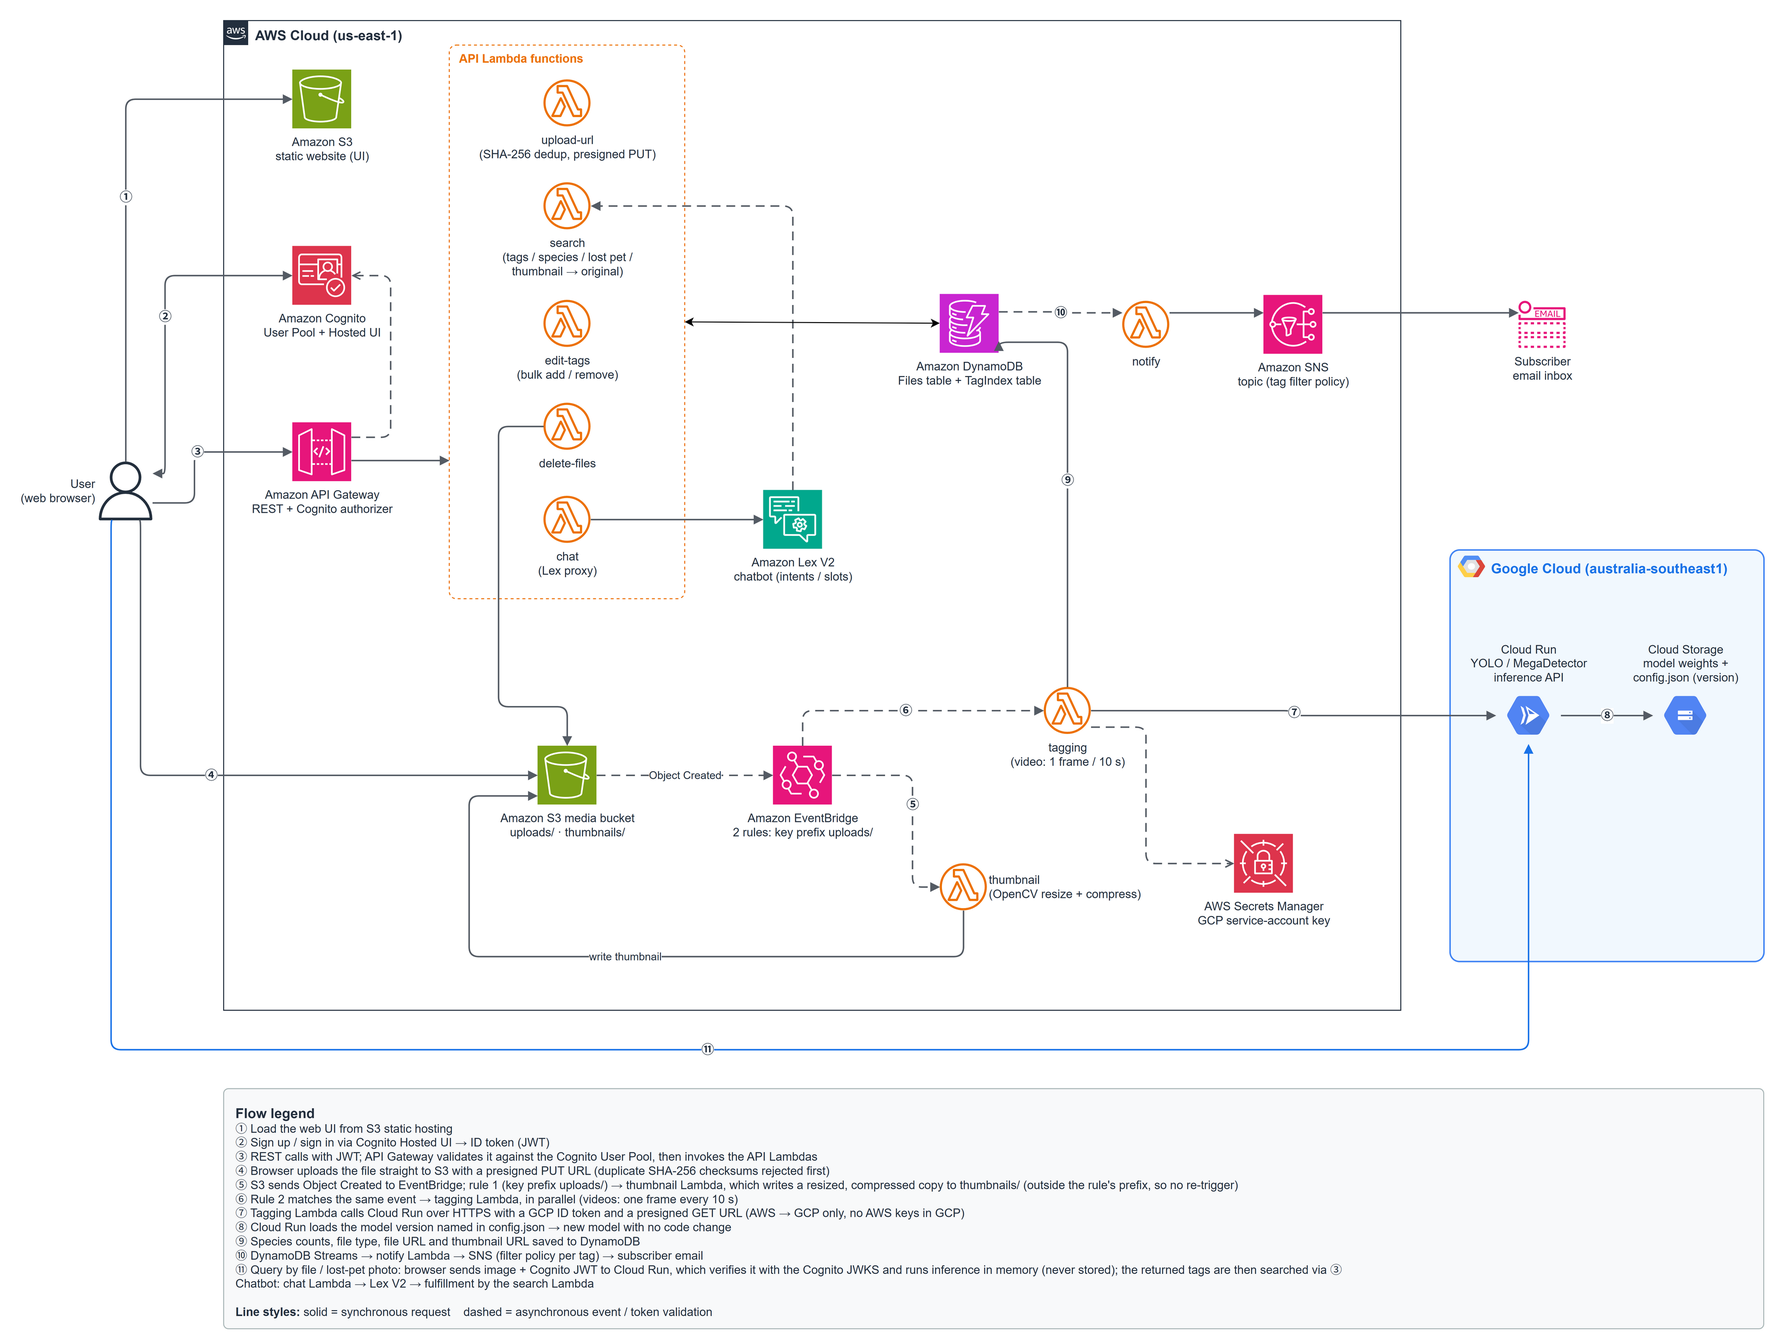
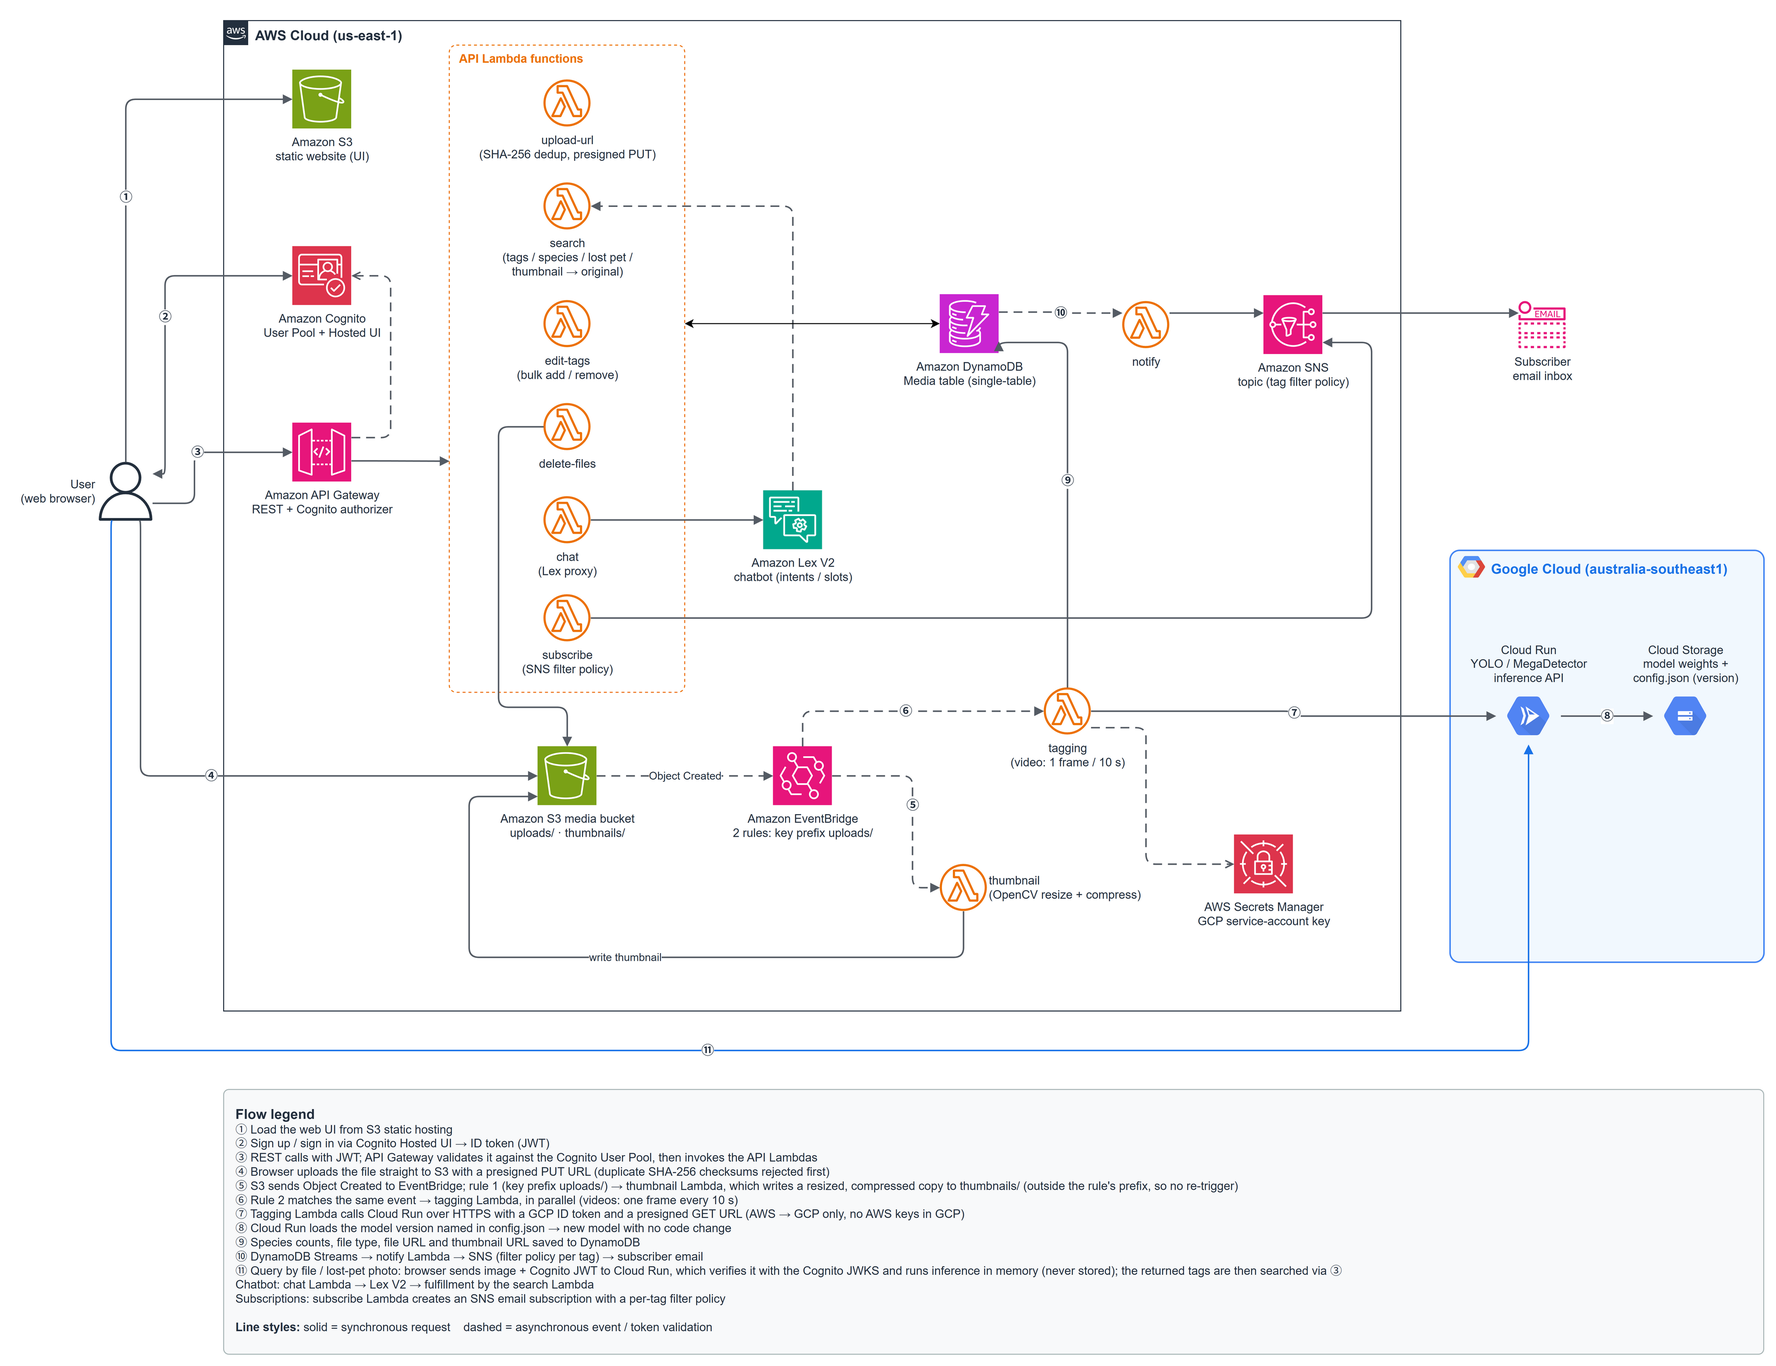
Update architecture documentation and diagrams for media handling
- Replace 'Files table + TagIndex table' with 'Media table (single-table)' in diagrams
- Adjust dimensions of API Lambda functions in architecture diagram
- Update flow legend to reflect changes in data model and notifications

diff --git a/architecture/README.md b/architecture/README.md
@@ -17,7 +17,7 @@ AWS is the primary cloud. It hosts authentication, the REST API, storage, the da
 | AWS | Amazon S3 (media bucket) | Original files in `uploads/`, thumbnails in `thumbnails/` |
 | AWS | Amazon EventBridge | Routes each S3 "Object Created" event to the thumbnail and tagging Lambdas (see §4) |
 | AWS | AWS Lambda (event functions) | `thumbnail`, `tagging`, `notify` |
-| AWS | Amazon DynamoDB | `Files` table and `TagIndex` table; DynamoDB Streams drive notifications |
+| AWS | Amazon DynamoDB | Single `Media` table holding file metadata and tags (§6); DynamoDB Streams drive notifications |
 | AWS | Amazon Lex V2 | Chatbot that turns natural-language queries into intents and slots |
 | AWS | Amazon SNS | Sends tag-based email notifications, filtered per subscriber |
 | AWS | AWS Secrets Manager | Holds the GCP service-account key that AWS uses to call Cloud Run |
@@ -51,15 +51,15 @@ Browser                API Gateway + upload-url λ        S3 media bucket       
 ```
 
 1. **Checksum in the browser.** The browser computes the file's **SHA-256** and calls `POST /upload-url` with the checksum, file name and content type (③).
-2. **Deduplication.** The `upload-url` Lambda looks the checksum up in the `Files` table. If it is already there, the API returns `409 Duplicate` with the existing file's URL and nothing is uploaded.
+2. **Deduplication.** The `upload-url` Lambda checks whether the `Media` table already has a `META` item for that checksum. If it is already there, the API returns `409 Duplicate` with the existing file's URL and nothing is uploaded.
 3. **Presigned URL.** For a new file, the Lambda returns a short-lived presigned **PUT** URL for `uploads/<sha256>.<ext>`. The URL is signed with the checksum (`ChecksumSHA256`), so S3 rejects any upload whose content does not match the checksum. As a backstop, `tagging` re-hashes the object and deletes it if the hash does not match its key.
 4. **Direct upload (④).** The browser PUTs the file straight to S3.
 5. **Event routing.** S3 sends an "Object Created" event to EventBridge. Two EventBridge rules, both filtered to the `uploads/` prefix, invoke the two processing Lambdas in parallel:
    - **⑤ `thumbnail`** downloads the image, resizes it while keeping the aspect ratio, compresses it with OpenCV, and writes the result to `thumbnails/`. Because the rules only match `uploads/`, writing a thumbnail does not trigger the pipeline again.
    - **⑥ `tagging`** creates a presigned **GET** URL for the object and sends it to Cloud Run (⑦). The call is authenticated with a GCP ID token minted from the service-account key held in Secrets Manager.
 6. **⑦ ⑧ Inference on GCP.** Cloud Run reads `config.json` from Cloud Storage to find the active model version, loads those weights (cached between requests), runs detection and returns per-species counts such as `{"fox": 2, "cat": 1}`. **Videos:** one frame is extracted every 10 seconds and each frame is run through the detector. The stored count for each species is the highest count seen in any single frame, so the same animal is not counted twice across frames.
-7. **⑨ Persist.** `tagging` writes the file type, the tag counts, the file URL and the thumbnail URL to DynamoDB.
-8. **⑩ Notify.** The new item appears on the DynamoDB Stream. The `notify` Lambda publishes to SNS with the species as message attributes, and each subscriber's **filter policy** decides who receives an email.
+7. **⑨ Persist.** `tagging` writes to the `Media` table in a single transaction: one `META` item (file type, file URL, thumbnail URL, colour attributes) and one `TAG#<species>` item per species with its count (§6).
+8. **⑩ Notify.** Each new `TAG#` item appears on the DynamoDB Stream. The `notify` Lambda publishes to SNS with the species as message attributes, and each subscriber's **filter policy** decides who receives an email.
 
 ## 4. Why EventBridge sits between S3 and the Lambdas
 
@@ -93,9 +93,9 @@ This section maps each requirement in Spec §4 to the flow that implements it. E
 |---|---|---|
 | Upload to cloud storage via REST or SDK | `POST /upload-url` returns a presigned PUT URL and the browser uploads straight to S3 (§3) | ③ ④ |
 | **Every upload triggers an event and a serverless function** | S3 **Object Created** → EventBridge → `thumbnail` and `tagging` Lambdas (§4) | ⑤ ⑥ |
-| Deduplication by checksum | The browser sends the SHA-256 first; `upload-url` rejects a checksum already in `Files` with `409`. The presigned PUT is bound to that checksum so the content cannot be swapped, and the conditional write `attribute_not_exists(file_id)` stops two uploads racing | ③ |
+| Deduplication by checksum | The browser sends the SHA-256 first; `upload-url` rejects a checksum that already has a `META` item in `Media` with `409`. The presigned PUT is bound to that checksum so the content cannot be swapped, and the conditional write `attribute_not_exists(file_id)` on the `META` item stops two uploads racing | ③ |
 | Thumbnail generation | The EventBridge rule for `thumbnail` matches image suffixes only (`.jpg`, `.jpeg`, `.png`). The Lambda uses OpenCV to scale the longest side to 256 px, keeping the aspect ratio, saves a JPEG at quality 70 to `thumbnails/<sha256>.jpg`, and has `s3:GetObject` on `uploads/*` and `s3:PutObject` on `thumbnails/*` | ⑤ |
-| Tag the file and save type, tags, file URL and thumbnail URL | `tagging` sends a presigned GET URL to Cloud Run and writes the result to `Files` and `TagIndex`. Because thumbnail keys are deterministic, `tagging` can store `thumb_url` without waiting for the `thumbnail` Lambda | ⑥ ⑦ ⑧ ⑨ |
+| Tag the file and save type, tags, file URL and thumbnail URL | `tagging` sends a presigned GET URL to Cloud Run and writes the result to `Media` (one `META` item plus one `TAG#` item per species). Because thumbnail keys are deterministic, `tagging` can store `thumb_url` without waiting for the `thumbnail` Lambda | ⑥ ⑦ ⑧ ⑨ |
 | Videos: **one frame every 10 seconds** | For a video, Cloud Run opens the presigned URL with OpenCV, seeks in 10-second steps (`CAP_PROP_POS_MSEC`), runs detection on each sampled frame, and keeps the highest count per species across frames | ⑦ |
 
 ### 5.3 Queries (Spec §4.3)
@@ -103,19 +103,19 @@ This section maps each requirement in Spec §4 to the flow that implements it. E
 #### Find files by tags with minimum counts
 
 - **Request:** `POST /search/tags` with `{"feral pig": 1, "cane toad": 3}`
-- **Flow:** `search` runs one `TagIndex` query per tag, for example `tag = "cane toad" AND sk >= "0003#"`. It intersects the resulting `file_id` sets (logical **AND**), then `BatchGetItem`s the matching `Files` items.
+- **Flow:** `search` runs one query per tag on the GSI `tag-count-index`, for example `tag = "cane toad" AND tag_count >= 3`. It intersects the resulting `file_id` sets (logical **AND**), then `BatchGetItem`s the matching `META` items (keys `{file_id, sk: "META"}`).
 - **Response:** thumbnail URLs for images and file URLs for videos.
 
 #### Find files by species, and find a lost pet
 
 - **By species:** `POST /search/species` with `{"species": ["cat"]}`. This is the spec's `{"cat"}` written as valid JSON. It is the query above with a minimum count of 1.
-- **Lost pet by description:** `POST /lost-pet` with `{"species": "cat", "attributes": ["orange"], "days": 14}`. `search` queries `TagIndex` for the species, keeps files where every requested colour or breed term appears in `attributes` or as a manual tag in `tags`, and keeps only those whose `created_at` falls within the last `days` days (recent sightings), newest first.
+- **Lost pet by description:** `POST /lost-pet` with `{"species": "cat", "attributes": ["orange"], "days": 14}`. `search` queries `tag-count-index` for the species and batch-gets the `META` items. It keeps a file only if every requested colour or breed term appears in its `attributes` or as a manual tag (a `TAG#<term>` item, found with the same GSI query), and keeps only those whose `created_at` falls within the last `days` days (recent sightings), newest first.
 - **Lost pet by photo:** first ⑪. The browser sends the pet photo to Cloud Run `/detect`, which returns its species and attributes without storing the image. Then it calls `POST /lost-pet` with them.
 
 #### Find the original file from a thumbnail URL
 
 - **Request:** `GET /search/original?thumb_url=<url>`
-- **Flow:** `search` parses `<sha256>` from the `thumbnails/<sha256>.jpg` path and does a `GetItem` on `Files` by primary key, then returns the original file's URL.
+- **Flow:** `search` parses `<sha256>` from the `thumbnails/<sha256>.jpg` path and does a `GetItem` on `Media` with key `{file_id, sk: "META"}`, then returns the original file's URL.
 
 #### Find files using the tags of an uploaded file (⑪)
 
@@ -128,13 +128,15 @@ This section maps each requirement in Spec §4 to the flow that implements it. E
 - **Request:** `POST /tags` with `{"url": ["<url1>", "<url2>"], "operation": 1, "tags": {"fox": 1, "cat": 2}}`
 - **`operation: 1` (add):** sets each tag's count on every listed file.
 - **`operation: 0` (remove):** deletes those tags; counts are ignored, and a tag the file does not have is silently skipped.
-- **Flow:** `edit-tags` parses each `file_id` from its URL and updates the `tags` map in `Files` and the matching `TagIndex` items in a single `TransactWriteItems`.
-- **Notifications:** the change appears on the DynamoDB Stream, so subscribers of a newly added tag are notified (5.4).
+- **Flow:** `edit-tags` parses each `file_id` from its URL. Because each tag is its own item, every change is a single-item write:
+  - add: a `Put` of `{file_id, sk: "TAG#fox", tag: "fox", tag_count: 1}`, paired in a small transaction with a `ConditionCheck` that the file's `META` item exists, so tags cannot be attached to an unknown URL
+  - remove: a `Delete` of `{file_id, sk: "TAG#fox"}`; deleting an item that does not exist is a no-op, which covers "ignore tags the file does not have"
+- **Notifications:** a newly added `TAG#` item appears on the DynamoDB Stream, so subscribers of that tag are notified (5.4).
 
 #### Delete files
 
 - **Request:** `POST /delete` with `{"url": ["<url1>", "<url2>"]}`
-- **Flow:** `delete-files` parses each `file_id`, deletes `uploads/<sha256>.<ext>` and `thumbnails/<sha256>.jpg` from S3, then deletes the `Files` item and all of its `TagIndex` items.
+- **Flow:** `delete-files` parses each `file_id`, deletes `uploads/<sha256>.<ext>` and `thumbnails/<sha256>.jpg` from S3, then runs one query, `file_id = <sha256>`, to get the file's `META` item and all of its `TAG#` items, and removes them with `BatchWriteItem`.
 
 #### Chatbot with natural-language queries
 
@@ -148,33 +150,67 @@ This section maps each requirement in Spec §4 to the flow that implements it. E
 
 ### 5.4 Tag-based notifications (Spec §4.4)
 
-1. **Subscribe:** `POST /subscriptions` with `{"tags": ["fox", "cane toad"]}`. A small `subscribe` Lambda reads the user's email from the JWT claims and calls SNS `Subscribe` with an email endpoint and a filter policy such as `{"species": ["fox", "cane toad"]}`. SNS sends a one-time confirmation email. (`subscribe` still needs to be added to the diagram's API Lambda group.)
-2. **Trigger:** every `INSERT` (new file) and `MODIFY` (tags edited) on `Files` reaches the `notify` Lambda through DynamoDB Streams (⑩). `notify` works out which species are new by comparing the old and new `tags` maps.
-3. **Deliver:** `notify` publishes one message per file with the message attribute `species` set to those new tags, plus a link to the file's page in the web app, `https://<site>/file/<sha256>`. A presigned URL is not used because it expires along with the Lambda's temporary credentials. SNS emails only the subscribers whose filter policy matches.
+1. **Subscribe:** `POST /subscriptions` with `{"tags": ["fox", "cane toad"]}`. A small `subscribe` Lambda reads the user's email from the JWT claims and calls SNS `Subscribe` with an email endpoint and a filter policy such as `{"species": ["fox", "cane toad"]}`. SNS sends a one-time confirmation email.
+2. **Trigger:** the `notify` Lambda reads the `Media` table's DynamoDB Stream (⑩). Its trigger has an **event filter** that passes only `INSERT` records whose `sk` begins with `TAG#`. Every record that reaches `notify` therefore means "file X gained tag Y", whether from automatic tagging or a manual edit, and no before/after comparison is needed. Changes to `META` items and count updates never invoke it.
+3. **Deliver:** `notify` groups the records in each batch by `file_id` and publishes one message per file, with the message attribute `species` set to the file's new tags, plus a link to the file's page in the web app, `https://<site>/file/<sha256>`. A presigned URL is not used because it expires along with the Lambda's temporary credentials. SNS emails only the subscribers whose filter policy matches.
 
-## 6. Data model (DynamoDB)
+## 6. Data model (DynamoDB single-table design)
 
-The data has no relationships that need joins: every query is "files with these tags". DynamoDB is serverless, needs no VPC (an RDS database would put the Lambdas in a VPC and require a NAT gateway to reach GCP), bills per request, and its Streams feed the notification flow directly.
+The data has no relationships that need SQL joins: every query is "files with these tags". DynamoDB is serverless, needs no VPC (an RDS database would put the Lambdas in a VPC and require a NAT gateway to reach GCP), bills per request, and its Streams feed the notification flow directly.
 
-**`Files` table**
+All data lives in **one table, `Media`**. A file's metadata and its tags share the same partition key (`file_id`), so each file forms one **item collection**, much like a folder. DynamoDB items are schemaless apart from the key: `META` items and `TAG` items carry different attributes.
 
-| Attribute | Notes |
+### 6.1 Example
+
+| `file_id` (PK) | `sk` (SK) | `file_url` | `thumb_url` | `file_type` | `attributes` | `owner` | `created_at` | `tag` | `tag_count` |
+|---|---|---|---|---|---|---|---|---|---|
+| `aaa…` | `META` | `uploads/aaa….jpg` | `thumbnails/aaa….jpg` | `image` | `[]` | `<sub>` | `2026-10-05T…` | | |
+| `aaa…` | `TAG#fox` | | | | | | | `fox` | `2` |
+| `aaa…` | `TAG#cat` | | | | | | | `cat` | `1` |
+| `bbb…` | `META` | `uploads/bbb….jpg` | `thumbnails/bbb….jpg` | `image` | `["orange"]` | `<sub>` | `2026-10-06T…` | | |
+| `bbb…` | `TAG#cat` | | | | | | | `cat` | `1` |
+
+Empty cells are attributes the item simply does not have. They are not stored as nulls.
+
+### 6.2 Keys and item types
+
+| Item type | `sk` value | Attributes |
+|---|---|---|
+| File metadata | `META` | `file_url`, `thumb_url` (absent for videos), `file_type` (`image` / `video`), `attributes` (colour / breed terms, e.g. `["orange"]`), `owner` (Cognito `sub`), `created_at` (ISO timestamp, used for "recent sightings") |
+| Tag | `TAG#<species>`, e.g. `TAG#cane toad` | `tag` (species name), `tag_count` (number) |
+
+- **Partition key `file_id`** is the file's SHA-256 (see "Keys and URLs" in §5). It is also the deduplication key: the `META` item is written with `attribute_not_exists(file_id)`.
+- **Sort key `sk`**: the `TAG#` prefix tells the item types apart and allows `begins_with(sk, "TAG#")` to fetch only a file's tags.
+- The count attribute is named `tag_count` because `count` is a DynamoDB reserved word.
+- Key strings are built in one shared helper module, packaged as a Lambda Layer, so no Lambda hand-writes `"TAG#" + name`.
+
+### 6.3 Global secondary index `tag-count-index`
+
+| Setting | Value |
 |---|---|
-| `file_id` (PK) | SHA-256 of the file content. It doubles as the deduplication key; writes use `attribute_not_exists(file_id)` |
-| `file_url`, `thumb_url` | S3 locations (`thumb_url` is empty for videos) |
-| `file_type` | `image` or `video` |
-| `tags` | Map of species to count, e.g. `{"fox": 2, "cane toad": 3}` |
-| `attributes` | Colour / breed terms from the second-stage classifier, e.g. `["orange"]`; used by the lost-pet search |
-| `owner`, `created_at` | Cognito `sub`; ISO timestamp, used for "recent sightings" |
+| Partition key | `tag` (String) |
+| Sort key | `tag_count` (Number) |
+| Projection | Keys only (the index then holds `tag`, `tag_count`, `file_id`, `sk`) |
 
-No secondary index is needed for "thumbnail URL to original": the thumbnail key contains the `file_id`, so the lookup is a plain `GetItem`.
+This is a **sparse index**: `META` items have no `tag` attribute, so DynamoDB leaves them out automatically and the index contains only tag items. A query like `tag = "fox" AND tag_count >= 2` reads only matching items, with no padding tricks and no filter pass.
 
-**`TagIndex` table** (one item per tag per file)
+### 6.4 Access patterns
 
-| Attribute | Notes |
+| Operation | DynamoDB calls |
 |---|---|
-| `tag` (PK) | e.g. `fox` |
-| `sk` (SK) | `<zero-padded count>#<file_id>`, e.g. `0002#ab12…`. Zero padding makes text order match number order, so `count >= 2` becomes the key condition `sk >= "0002#"` |
+| Save a newly tagged file | `TransactWriteItems`: `Put` `META` (conditional) + `Put` one `TAG#` item per species |
+| Get a file with all its tags | One `Query`: `file_id = :id`. This returns `META` and every `TAG#` item together and plays the role of the join |
+| Search by tags with minimum counts | One `Query` on `tag-count-index` per tag, intersect the `file_id`s, then `BatchGetItem` the `META` items |
+| Thumbnail URL to original | Parse `file_id` from the URL, then `GetItem` `{file_id, sk: "META"}` |
+| Add a tag | `Put` `{file_id, sk: "TAG#<tag>"}` (with a `ConditionCheck` on `META`) |
+| Remove a tag | `Delete` `{file_id, sk: "TAG#<tag>"}` |
+| Delete a file | `Query` `file_id = :id`, then `BatchWriteItem` deletes every returned item |
+| Notify on new tags | DynamoDB Stream (`NEW_IMAGE`) with an event filter: `INSERT` and `sk` begins with `TAG#` |
+
+### 6.5 Consistency
+
+- **Tags are stored exactly once**, as `TAG#` items. There is no second copy that could drift out of sync, and adding or removing a tag touches one item.
+- **The GSI is eventually consistent.** A new tag normally becomes searchable within a second. A search issued immediately after an upload may miss the new file, which is acceptable for this application. Reads by primary key, such as file details or "thumbnail to original", can use strongly consistent reads.
 
 ## 7. Model options
 
@@ -274,7 +310,8 @@ Switching models, adding a species or changing a threshold means uploading weigh
 | Presigned URL uploads straight to S3 | Gets around the 10 MB API Gateway / 6 MB Lambda payload limits, and the large file never passes through a Lambda |
 | Checksum-signed presigned PUT | Deduplication cannot be bypassed by sending one hash and uploading different content |
 | EventBridge between S3 and the processing Lambdas | One S3 event can trigger several Lambdas, and the rules filter by object key prefix |
-| DynamoDB instead of RDS | No joins needed; serverless, no VPC or NAT, Streams for notifications |
+| DynamoDB instead of RDS | No SQL joins needed; serverless, no VPC or NAT, Streams for notifications |
+| Single-table design (`Media`) with a sparse GSI | A file and its tags form one item collection, fetched with one query; each tag is stored once, so there is nothing to keep in sync; the sparse GSI on `tag` + `tag_count` answers "at least N of species X" with a key condition |
 | SNS for notifications | Native filter policies match the "notify me about species X" requirement with no custom matching code |
 
 ## 9. Diagram maintenance
